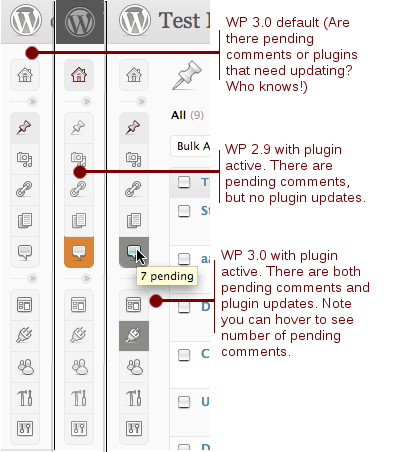
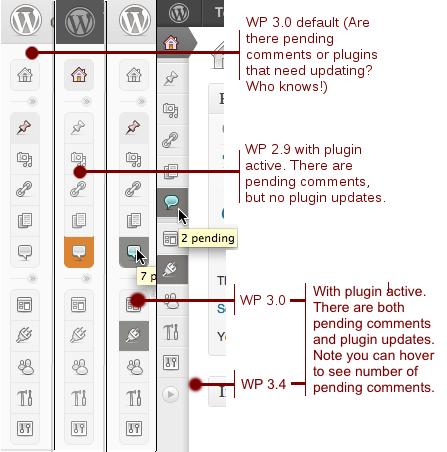
Release v1.1.2:
* Re-license as GPLv2 or later (from X11)
* Add 'License' and 'License URI' header tags to readme.txt and plugin file
* Remove ending PHP close tag
* Update screenshot for WP 3.4
* Minor readme.txt changes
* Note compatibility through WP 3.4+

Changed region(s): [[0.0, 0.0, 0.99, 1.0], [0.03, 0.9292, 0.09, 0.9602], [0.03, 0.8673, 0.09, 0.8982]]

diff --git a/notifications-for-collapsed-admin-menu.php b/notifications-for-collapsed-admin-menu.php
@@ -2,42 +2,45 @@
 /**
  * @package Notifications_for_Collapsed_Admin_Menu
  * @author Scott Reilly
- * @version 1.1.1
+ * @version 1.1.2
  */
 /*
 Plugin Name: Notifications for Collapsed Admin Menu
-Version: 1.1.1
+Version: 1.1.2
 Plugin URI: http://coffee2code.com/wp-plugins/notifications-for-collapsed-admin-menu/
 Author: Scott Reilly
 Author URI: http://coffee2code.com
+License: GPLv2 or later
+License URI: http://www.gnu.org/licenses/gpl-2.0.html
 Description: Highlights the comments and plugins icons in the collapsed admin sidebar menu when notifications are pending.
 
-Compatible with WordPress 2.8+, 2.9+, 3.0+, 3.1+, 3.2+, 3.3+.
+Compatible with WordPress 2.8 through 3.4+.
 
 =>> Read the accompanying readme.txt file for instructions and documentation.
 =>> Also, visit the plugin's homepage for additional information and updates.
 =>> Or visit: http://wordpress.org/extend/plugins/notifications-for-collapsed-admin-menu/
 
 TODO:
-	* Update screenshot
 	* Explore other methods of notification (i.e. numeric count)
-
+	* Don't assign tooltip to comment icon if it has submenus (and thus WP would show pending comments count)
 */
 
 /*
-Copyright (c) 2010-2012 by Scott Reilly (aka coffee2code)
+	Copyright (c) 2010-2012 by Scott Reilly (aka coffee2code)
 
-Permission is hereby granted, free of charge, to any person obtaining a copy of this software and associated documentation
-files (the "Software"), to deal in the Software without restriction, including without limitation the rights to use, copy,
-modify, merge, publish, distribute, sublicense, and/or sell copies of the Software, and to permit persons to whom the
-Software is furnished to do so, subject to the following conditions:
+	This program is free software; you can redistribute it and/or
+	modify it under the terms of the GNU General Public License
+	as published by the Free Software Foundation; either version 2
+	of the License, or (at your option) any later version.
 
-The above copyright notice and this permission notice shall be included in all copies or substantial portions of the Software.
+	This program is distributed in the hope that it will be useful,
+	but WITHOUT ANY WARRANTY; without even the implied warranty of
+	MERCHANTABILITY or FITNESS FOR A PARTICULAR PURPOSE.  See the
+	GNU General Public License for more details.
 
-THE SOFTWARE IS PROVIDED "AS IS", WITHOUT WARRANTY OF ANY KIND, EXPRESS OR IMPLIED, INCLUDING BUT NOT LIMITED TO THE WARRANTIES
-OF MERCHANTABILITY, FITNESS FOR A PARTICULAR PURPOSE AND NONINFRINGEMENT. IN NO EVENT SHALL THE AUTHORS OR COPYRIGHT HOLDERS BE
-LIABLE FOR ANY CLAIM, DAMAGES OR OTHER LIABILITY, WHETHER IN AN ACTION OF CONTRACT, TORT OR OTHERWISE, ARISING FROM, OUT OF OR
-IN CONNECTION WITH THE SOFTWARE OR THE USE OR OTHER DEALINGS IN THE SOFTWARE.
+	You should have received a copy of the GNU General Public License
+	along with this program; if not, write to the Free Software
+	Foundation, Inc., 51 Franklin Street, Fifth Floor, Boston, MA  02110-1301, USA.
 */
 
 if ( is_admin() && ! class_exists( 'c2c_NotificationsForCollapsedAdminMenu' ) ) :
@@ -50,7 +53,7 @@ if ( is_admin() && ! class_exists( 'c2c_NotificationsForCollapsedAdminMenu' ) ) 
 		 * @since 1.1.1
 		 */
 		public static function version() {
-			return '1.1.1';
+			return '1.1.2';
 		}
 
 		/**
@@ -108,5 +111,3 @@ CSS;
 	c2c_NotificationsForCollapsedAdminMenu::init();
 
 endif;
-
-?>
